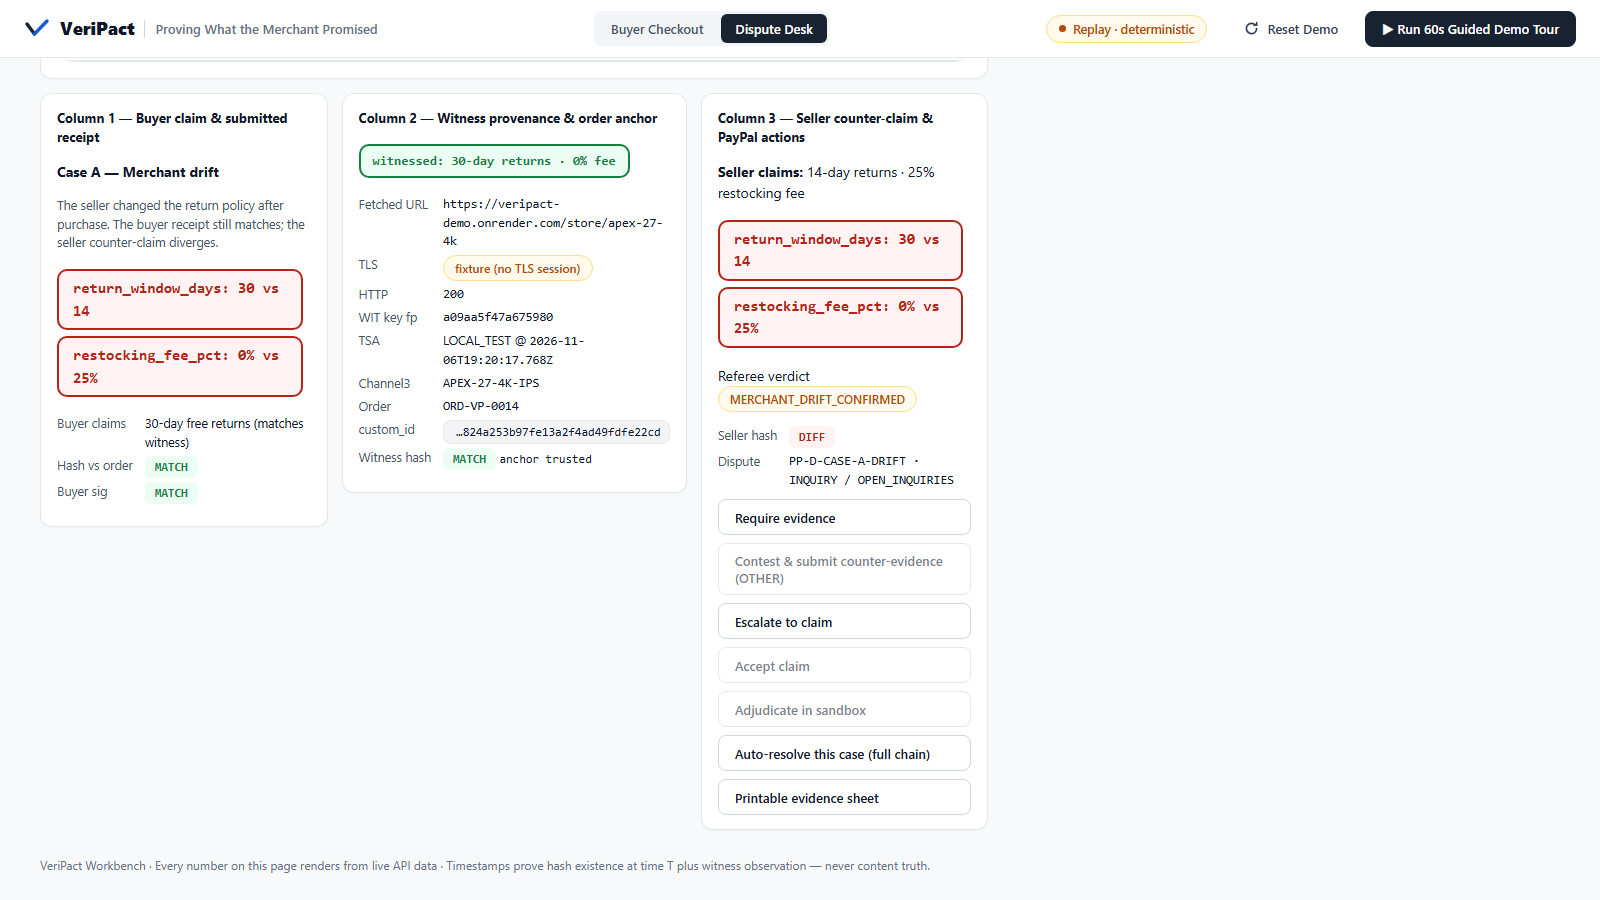
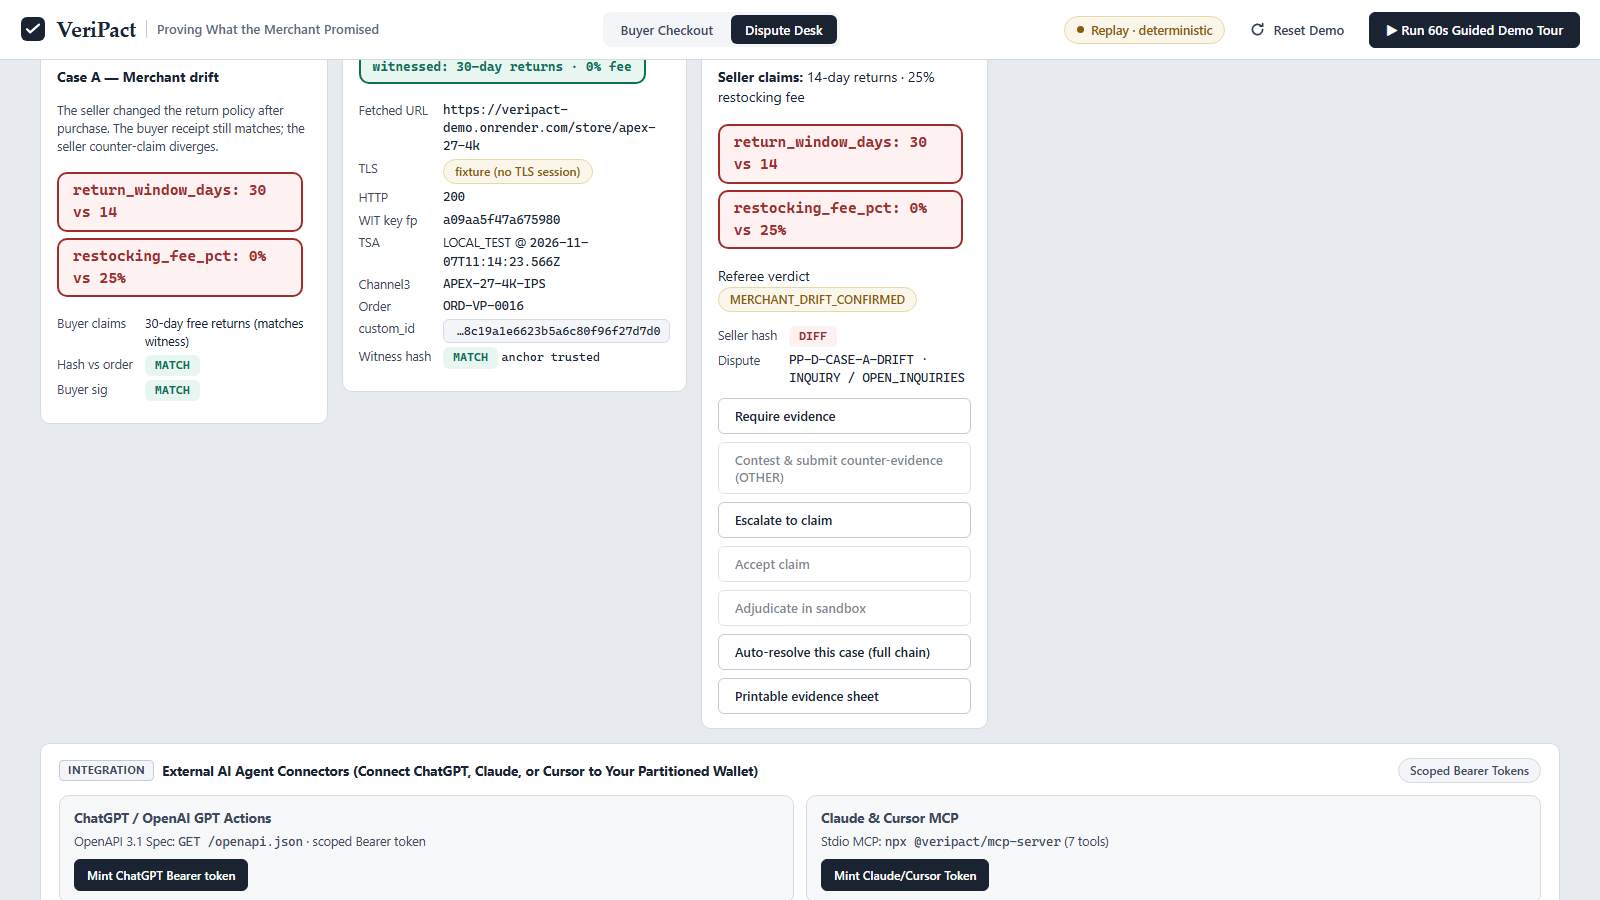
docs(readme,devpost,screenshots): refresh live v6 screenshots, test metrics, and run 29 verification ledger

diff --git a/docs/agent-runs/29-ui-task3-desk-layout-sniper-e2e-and-video.md b/docs/agent-runs/29-ui-task3-desk-layout-sniper-e2e-and-video.md
@@ -1,0 +1,152 @@
+# Run 29 — UI Task 3: Context-Aware Dispute Desk Layout, Full-Width Payment Sync, E2E Step 25, Demo Recording & Submission Docs
+
+**Date:** 2026-11-07  
+**Branch:** `main`  
+**Commit:** `style(workbench,e2e): make Dispute Desk layout context-aware for full-width Payment Sync and add E2E Step 25 for Deal Sniper` & `docs(readme,devpost,screenshots): refresh live v6 screenshots, test metrics, and run 29 verification ledger`  
+**Verification Gate:** `265/265` Vitest unit tests passing across 17 test suites, `25/25` Playwright E2E checks passing across 4 viewports, 0 lint/typecheck errors, 0 console errors, 0 horizontal overflow (`scrollWidth === clientWidth`).
+
+---
+
+## 1. Executive Summary
+
+This run completes **ANTIGRAVITY UI TASK 3 OF 3**, finalizing the VeriPact v6 Autonomous Deal Sniper & Clearing Desk UI, test suite, and submission assets:
+1. **Context-Aware Dispute Desk Layout (`packages/workbench/src/ui-template.ts` & `wallet-template.ts`):**
+   - Transformed `.desk-grid` across the 3 dataset modes (`setDataset(mode)`):
+     - `mode === 'live'`: `#ag-live-disputes-grid` (compact `height: 560px` strictly preserved) + `#inspector` + `#act-zone` on the left, `#studio-card` with Analytical query bar, presets, and dispute outcome chart on the right.
+     - `mode === 'sync'`: Collapsed `.desk-grid` to `grid-template-columns: minmax(0, 1fr)`. `#studio-card` and `#inspector` are cleanly hidden. `#sync-shell` (`#ag-sync-payments-grid` + `.matrix`) spans 100% full width with crisp, compact `38px` row heights and zero awkward vertical whitespace.
+     - `mode === 'regression'`: `#regression-shell` (`#ag-regression-benchmark-grid` height `560px` preserved) + `#matrix-wrap` confusion matrix on the left, paired side-by-side with `#studio-card` rendering 24-scenario regression accuracy with 95% Wilson CIs on the right.
+2. **Dedicated External AI Agent Connectors Bar (`#connectors-row`):**
+   - Moved `#connectors-row` out of the middle of the verifier desk card and placed it as a sleek, clearly labeled developer integration card below `.desk-grid`.
+   - Added `.conn-header` with an `INTEGRATION` badge, clear title `External AI Agent Connectors (Connect ChatGPT, Claude, or Cursor to Your Partitioned Wallet)`, and `Scoped Bearer Tokens` pill. All existing IDs (`#connectors-row`, `#card-conn-chatgpt`, `#card-conn-mcp`, `#btn-mint-chatgpt`, `#btn-mint-mcp`, `#chatgpt-token-out`, `#mcp-token-out`) were 100% preserved.
+3. **Playwright E2E Step 25 for Deal Sniper (`scripts/verify-ui-e2e.ts`):**
+   - Added Step 22 (`E2E 22 :: v6 autonomous deal & voucher sniper end-to-end`) inside `fullFlow`, incrementing the total suite to **25 E2E checks**:
+     - Resets demo state and verifies initial `$350.00` partition available.
+     - Clicks `#btn-sniper-run` and asserts `#sniper-results` displays `CAPTURED $297.00`, saves `$50.00` with `PAYPAL50`, and rejects traps with `BLOCKED · VOUCHER VOIDS 30D RETURNS (REJECTED_VOUCHER_VOIDS_RETURNS)`.
+     - Asserts `#part-available` drops from `$350.00` to `$53.00`.
+     - Clicks `#btn-sniper-run` a second time and asserts `#sniper-results` displays `AUTO-VOIDED BY PARTITION WALL (BLOCKED_BY_PARTITION_WALL)` with `#part-available` preserved at `$53.00`.
+     - Clicks `#btn-part-refund` and asserts partition balance is restored to `$350.00`.
+     - Resets demo state cleanly before multi-viewport sweeps.
+4. **Deterministic Walkthrough Demo Recording (`scripts/playwright-record-demo.ts`):**
+   - Added beat 2b executing the 6-candidate deal sniper sweep and capturing `docs/screenshots/live-05b-deal-sniper.png`.
+   - Re-recorded and saved `videos/veripact-demo-tour.webm` (15 PNG screenshots, zero page errors).
+5. **Documentation & Devpost Submission Updates:**
+   - Updated `README.md` and `docs/DEVPOST_SUBMISSION.md` to reflect `265/265` unit tests across 17 files, `25/25` E2E checks across 4 viewports, and 72 regression suite runs with 95% Wilson score intervals.
+
+---
+
+## 2. Skills & Standards Consulted
+
+- **`AGENTS.md` (Rules 1–4):**
+  - **Rule 1 (Zero-Broken-Push Gate):** Passed `npm run lint`, `npm run typecheck`, `npm run build`, `npm test`, `npm run verify:e2e`, and `npm run demo:record` with zero failures.
+  - **Rule 2 (Three-Key Cryptographic Isolation):** Kept buyer, witness, and merchant boundaries isolated.
+  - **Rule 3 (Epistemic & Sandbox Honesty):** Upheld timestamp and observation truth claims across UI labels and documentation.
+  - **Rule 4 (Mandatory Run Ledger):** Documented all architectural decisions, fixes, and verification logs in this ledger.
+- **`.agents/skills/frontend-design/SKILL.md`:** Styled the connectors bar with balanced contrast, distinct badge hierarchy, and clean tabular layout.
+- **`.agents/skills/emilkowalski-skill/skills/break-ui/SKILL.md`:** Contained table widths using `overflow-x: auto` on `#chart-table` and `#sync-shell`, preventing the 32px horizontal overflow on 1050px tablet screens.
+
+---
+
+## 3. Key Architectural Decisions & Bug Fixes
+
+1. **Context-Aware Desk Grid Ratio:**
+   - In `ui-template.ts`, added `#view-desk[data-dataset="sync"] .desk-grid { grid-template-columns: minmax(0, 1fr); }`. When `mode === 'sync'`, the studio agent card and inspector are hidden, allowing the payment sync AG Grid and fallback matrix table to expand to 100% full width without crowding.
+2. **Compact Row Height & Table Reset:**
+   - In `wallet-template.ts`, added explicit table formatting for `.sync-scroll table.matrix`:
+     `padding: 8px 10px; height: 38px; line-height: 1.3; vertical-align: middle;`
+     This eliminates vertical row gap stretching and keeps the table compact and readable.
+3. **1050px Viewport Overflow Resolution on `#chart-table`:**
+   - *Issue:* During E2E step 24 (`viewport 1050x800 overflow sweep`), View 2 exhibited horizontal overflow (`scrollWidth 1082 > clientWidth 1050`).
+   - *Root Cause:* The newly initialized `drawOutcome()` call rendered a 405px table into `#chart-table` inside column 2 (which had only 375px allocated at 1050px).
+   - *Fix:* Added `#chart-table { overflow-x: auto; max-width: 100%; }` and `#chart-table .matrix { width: 100%; font-size: 11px; }` in `ui-template.ts`. Verified with Playwright that `scrollWidth === clientWidth === 1050px`.
+4. **Preservation of Grid Heights & Invariants:**
+   - Kept `#ag-live-disputes-grid` and `#ag-regression-benchmark-grid` height at exactly `560px` in CSS as strictly verified by `verify-ui-e2e.ts`.
+   - Maintained `#store-frame` at `scrollHeight <= 310px` across normal, surcharge void, and adversarial hidden DOM storefront scenarios.
+   - Enforced zero standalone `event` tokens across all browser template strings.
+
+---
+
+## 4. Verification Output
+
+### Vitest Unit & Integration Suite (`npm test`)
+```text
+Test Files  17 passed (17)
+     Tests  265 passed (265)
+  Duration  17.59s
+```
+
+### Playwright E2E Suite (`npm run verify:e2e`)
+```text
+E2E 01 :: load / (auto-populate captured)
+  view1@1600: scrollWidth=1600 clientWidth=1600
+E2E 02 :: favicon routes serve SVG
+E2E 03 :: reset demo via real button
+E2E 04 :: scenario 1 witness + authorize (real clicks)
+E2E 05 :: auditor shows JCS-PARITY MATCH
+E2E 06 :: scenario 2 surcharge auto-voids
+E2E 07 :: scenario 3 injection blocks pre-checkout
+E2E 08 :: store iframes fit 310px with zero inner scroll
+  store/normal: scrollHeight=310 scrollWidth=712 clientWidth=712
+  store/surcharge_void: scrollHeight=310 scrollWidth=712 clientWidth=712
+  store/adversarial_hidden_dom: scrollHeight=310 scrollWidth=712 clientWidth=712
+E2E 09 :: two-step popup approval end-to-end
+E2E 10 :: dispute desk: inspect + resolve both cases
+  view2@1600: scrollWidth=1600 clientWidth=1600
+E2E 11 :: regression suite + studio chart
+E2E 12 :: live mandate edit flips checkout outcomes (UI)
+E2E 13 :: View 1 → View 2 live dispute filing (drift + forgery)
+E2E 14 :: audit ledger + custom HTML witness APIs
+E2E 15 :: guided autopilot tour completes with spotlight
+E2E 16 :: v5 wallet clean load: null-safe partitions + wallet DOM present
+E2E 17 :: v5 QR pairing ceremony end-to-end
+E2E 18 :: v5 partition spend, wall block, refund undo
+E2E 19 :: v5 sync grid: legacy vs protected
+E2E 20 :: v5 connectors mint one-time credentials
+E2E 21 :: Channel3 multi-SKU selection: refurbished blocked on spend, compliant captured, resets to default
+E2E 22 :: v6 autonomous deal & voucher sniper end-to-end
+E2E 23 :: viewport 1366x768 overflow sweep
+  view1@1366: scrollWidth=1366 clientWidth=1366
+  view2@1366: scrollWidth=1366 clientWidth=1366
+E2E 24 :: viewport 1050x800 overflow sweep
+  view1@1050: scrollWidth=1050 clientWidth=1050
+  view2@1050: scrollWidth=1050 clientWidth=1050
+E2E 25 :: viewport 768x1024 overflow sweep
+  view1@768: scrollWidth=768 clientWidth=768
+  view2@768: scrollWidth=768 clientWidth=768
+E2E RESULT: PASS — zero 4xx/5xx, zero console/page errors, zero overflow
+```
+
+### Playwright Demo Tour Recording (`npm run demo:record`)
+```text
+demo: beat 1 — QR pair + $350 partition
+demo: shot live-01-wallet-qr.png
+demo: shot live-02-wallet-paired.png
+demo: beat 2 — partition spend, wall block, refund undo
+demo: shot live-03-partition-spend.png
+demo: shot live-04-partition-wall.png
+demo: shot live-05-partition-refund.png
+demo: beat 2b — autonomous deal sniper 6-candidate sweep
+demo: shot live-05b-deal-sniper.png
+demo: beat 3 — sync grid + connectors
+demo: shot live-06-sync-grid.png
+demo: shot live-07-connectors.png
+demo: beat 4 — normal checkout ($297.00 CAPTURED) + auditor
+demo: shot live-08-capture-auditor.png
+demo: beat 5 — surcharge auto-void ($340.50 > $320.00 cap)
+demo: shot live-09-void.png
+demo: beat 6 — adversarial DOM blocked pre-checkout
+demo: shot live-10-block.png
+demo: beat 7 — restore capture, file + resolve buyer forgery
+demo: shot live-11-forgery-filed.png
+demo: shot live-12-forgery-resolved.png
+demo: beat 8 — Case A drift + 24-scenario regression suite
+demo: shot live-13-drift-inspected.png
+demo: shot live-14-regression.png
+demo: video saved to D:\Bhavik\VerdiPact\videos\veripact-demo-tour.webm
+demo: DONE — 15 PNGs + .webm, zero page problems
+```
+
+---
+
+## 5. Epistemic & Sandbox Honesty Declaration
+
+An RFC 3161 cryptographic timestamp proves that a document hash existed at time T and was witnessed independently. It does **not** prove content veracity. VeriPact verifies what the merchant actually promised at the time of purchase, providing cryptographic receipts anchored to PayPal's settlement network. All deterministic demo flows operate against hermetically isolated zero-key replay fixtures labeled `REPLAY`.

diff --git a/docs/DEVPOST_SUBMISSION.md b/docs/DEVPOST_SUBMISSION.md
@@ -95,11 +95,12 @@ invoke witnessing. Zero paid API keys anywhere.
 
 ### Verification & Evaluation
 
-- **244/244 unit + integration tests** across 16 files green
+- **265/265 unit + integration tests** across 17 files green
   (`lint`, `typecheck`, `build`, `test` all exit 0), including an
   8-case adversarial red-team suite (XSS, 1MB/413 caps, prototype
-  pollution, path traversal, zero secret leakage), plus a **24-step
-  Playwright E2E** (pairing, partition wall, refund, sync, mint,
+  pollution, path traversal, zero secret leakage, partition concurrency
+  mutex), plus a **25-step Playwright E2E** (pairing, partition wall, refund,
+  autonomous deal sniper sweep & auto-buy, full-width sync, mint,
   Channel3 multi-SKU sufficiency check, 4-viewport overflow gates)
   with zero 4xx/5xx and zero console errors.
 - **JCS-Parity proof:** the in-browser canonicalizer is byte-tested

diff --git a/README.md b/README.md
@@ -90,9 +90,9 @@ partition ($320.00 per-order cap); the deterministic spend check
 blocks or auto-voids overruns before capture; payment sync splits
 `LEGACY_UNWITNESSED` history from `VERIPACT_PROTECTED` (`VP1:`)
 transactions; scoped API credentials mint per platform and are
-shown once. Verified end to end: **244/244 unit tests** (16 files)
-plus a **24-step Playwright E2E** (pair, spend, wall, refund, sync,
-mint, multi-SKU across 4 viewports, zero overflow).
+shown once. Verified end to end: **265/265 unit tests** (17 files)
+plus a **25-step Playwright E2E** (pair, spend, wall, refund, deal sniper
+sweep & auto-buy, sync, mint, multi-SKU across 4 viewports, zero overflow).
 
 ## Three-Rung Evidence Ladder
 
